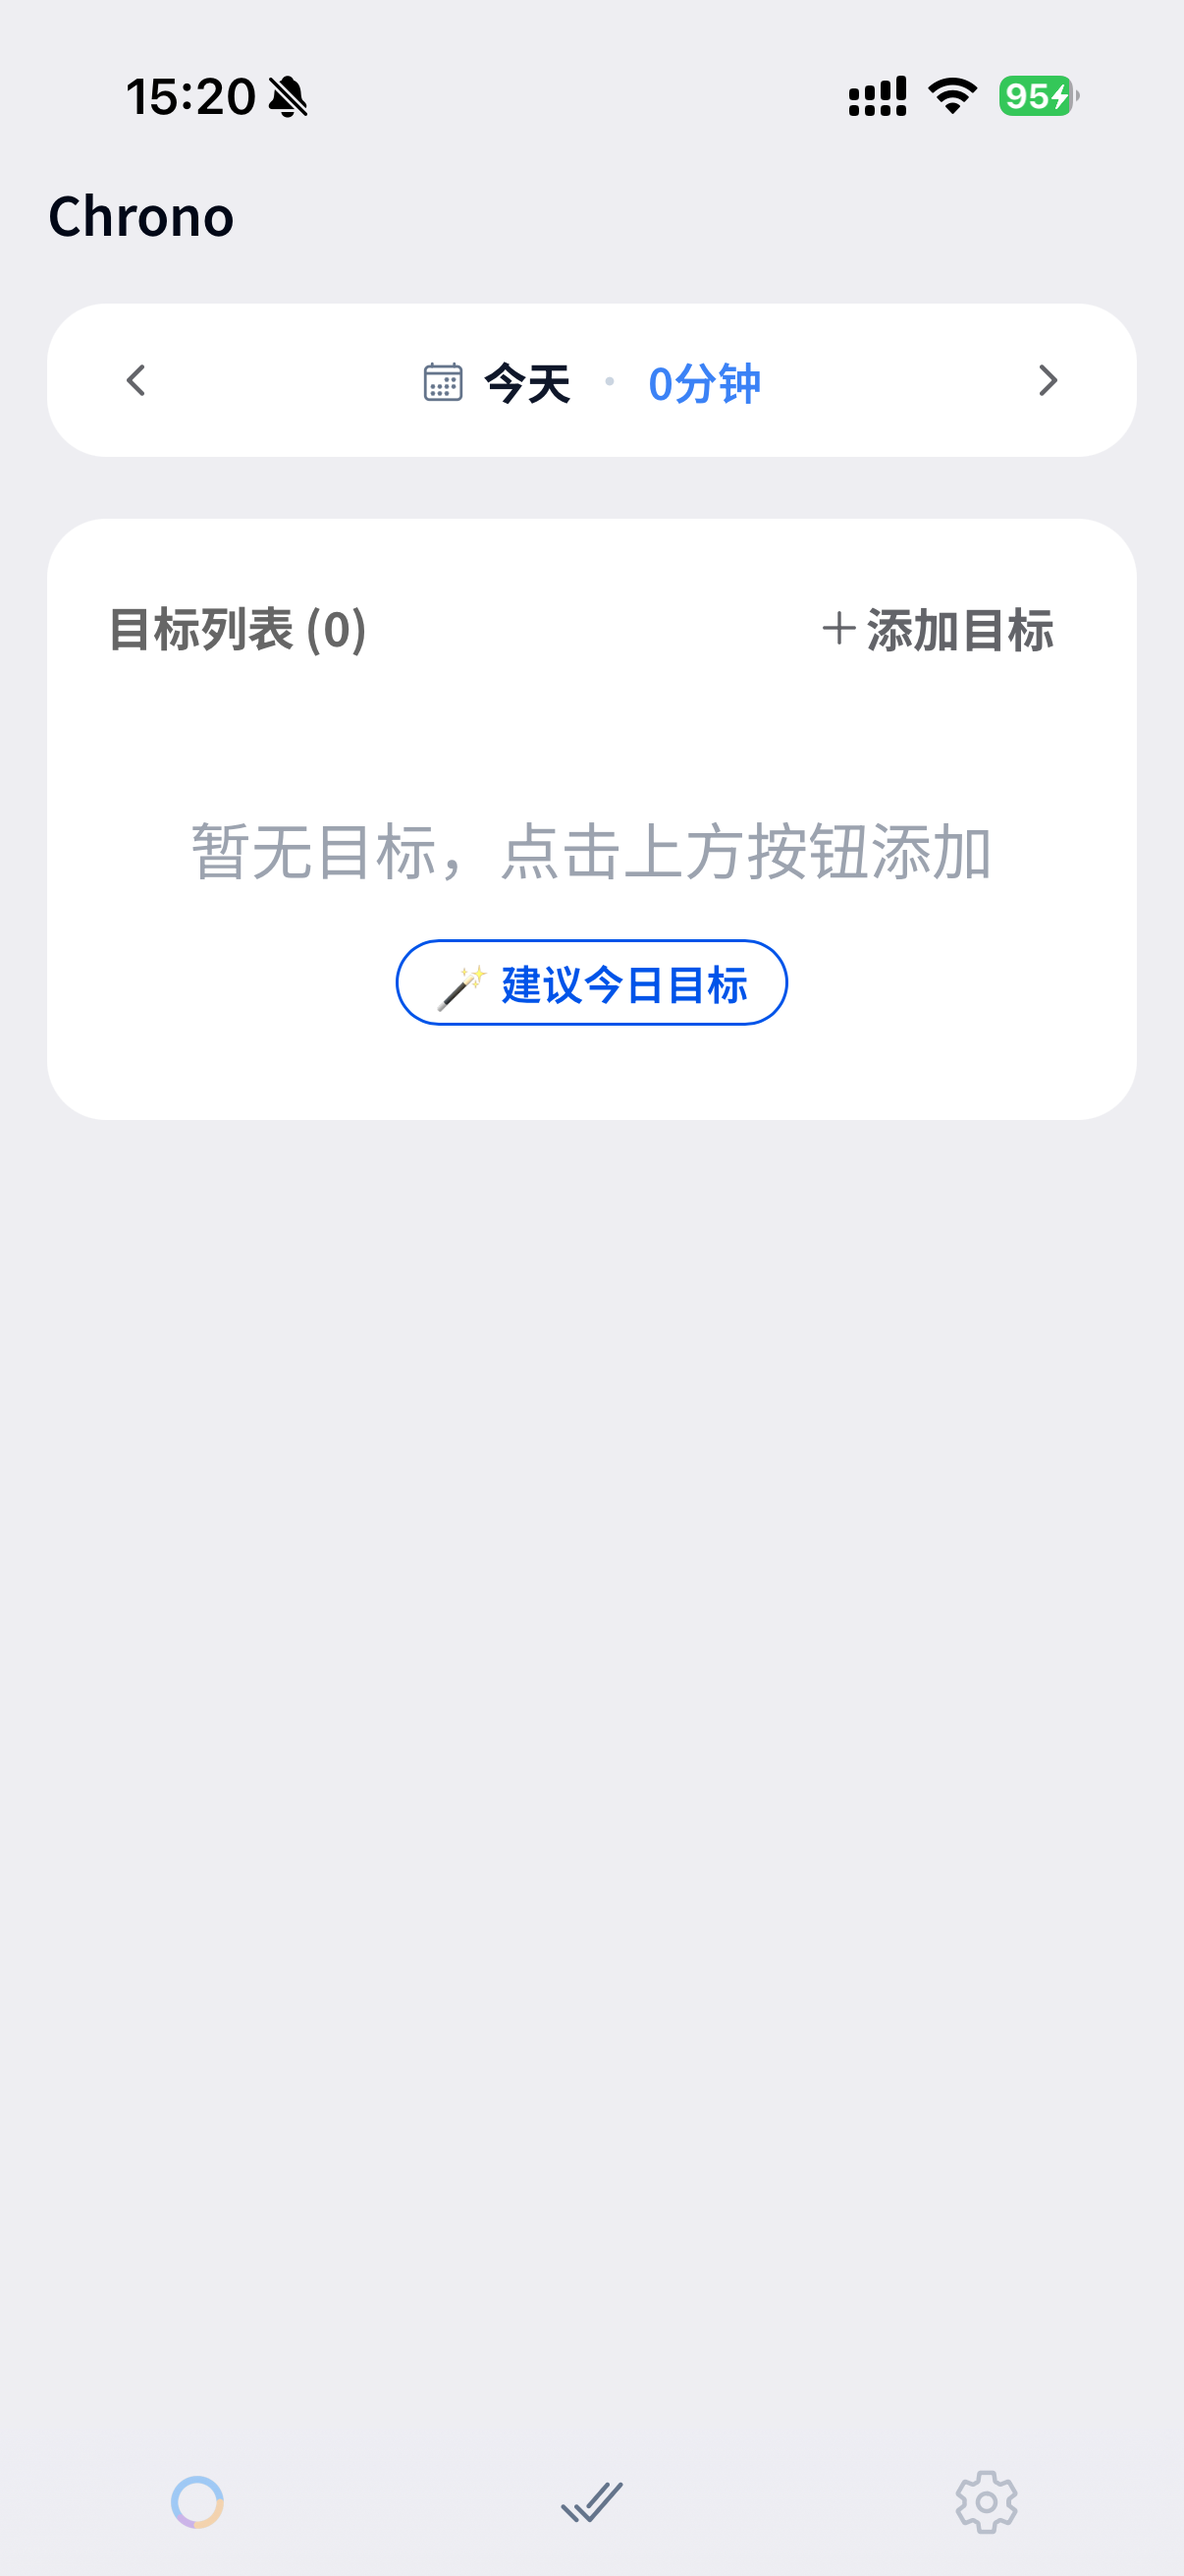
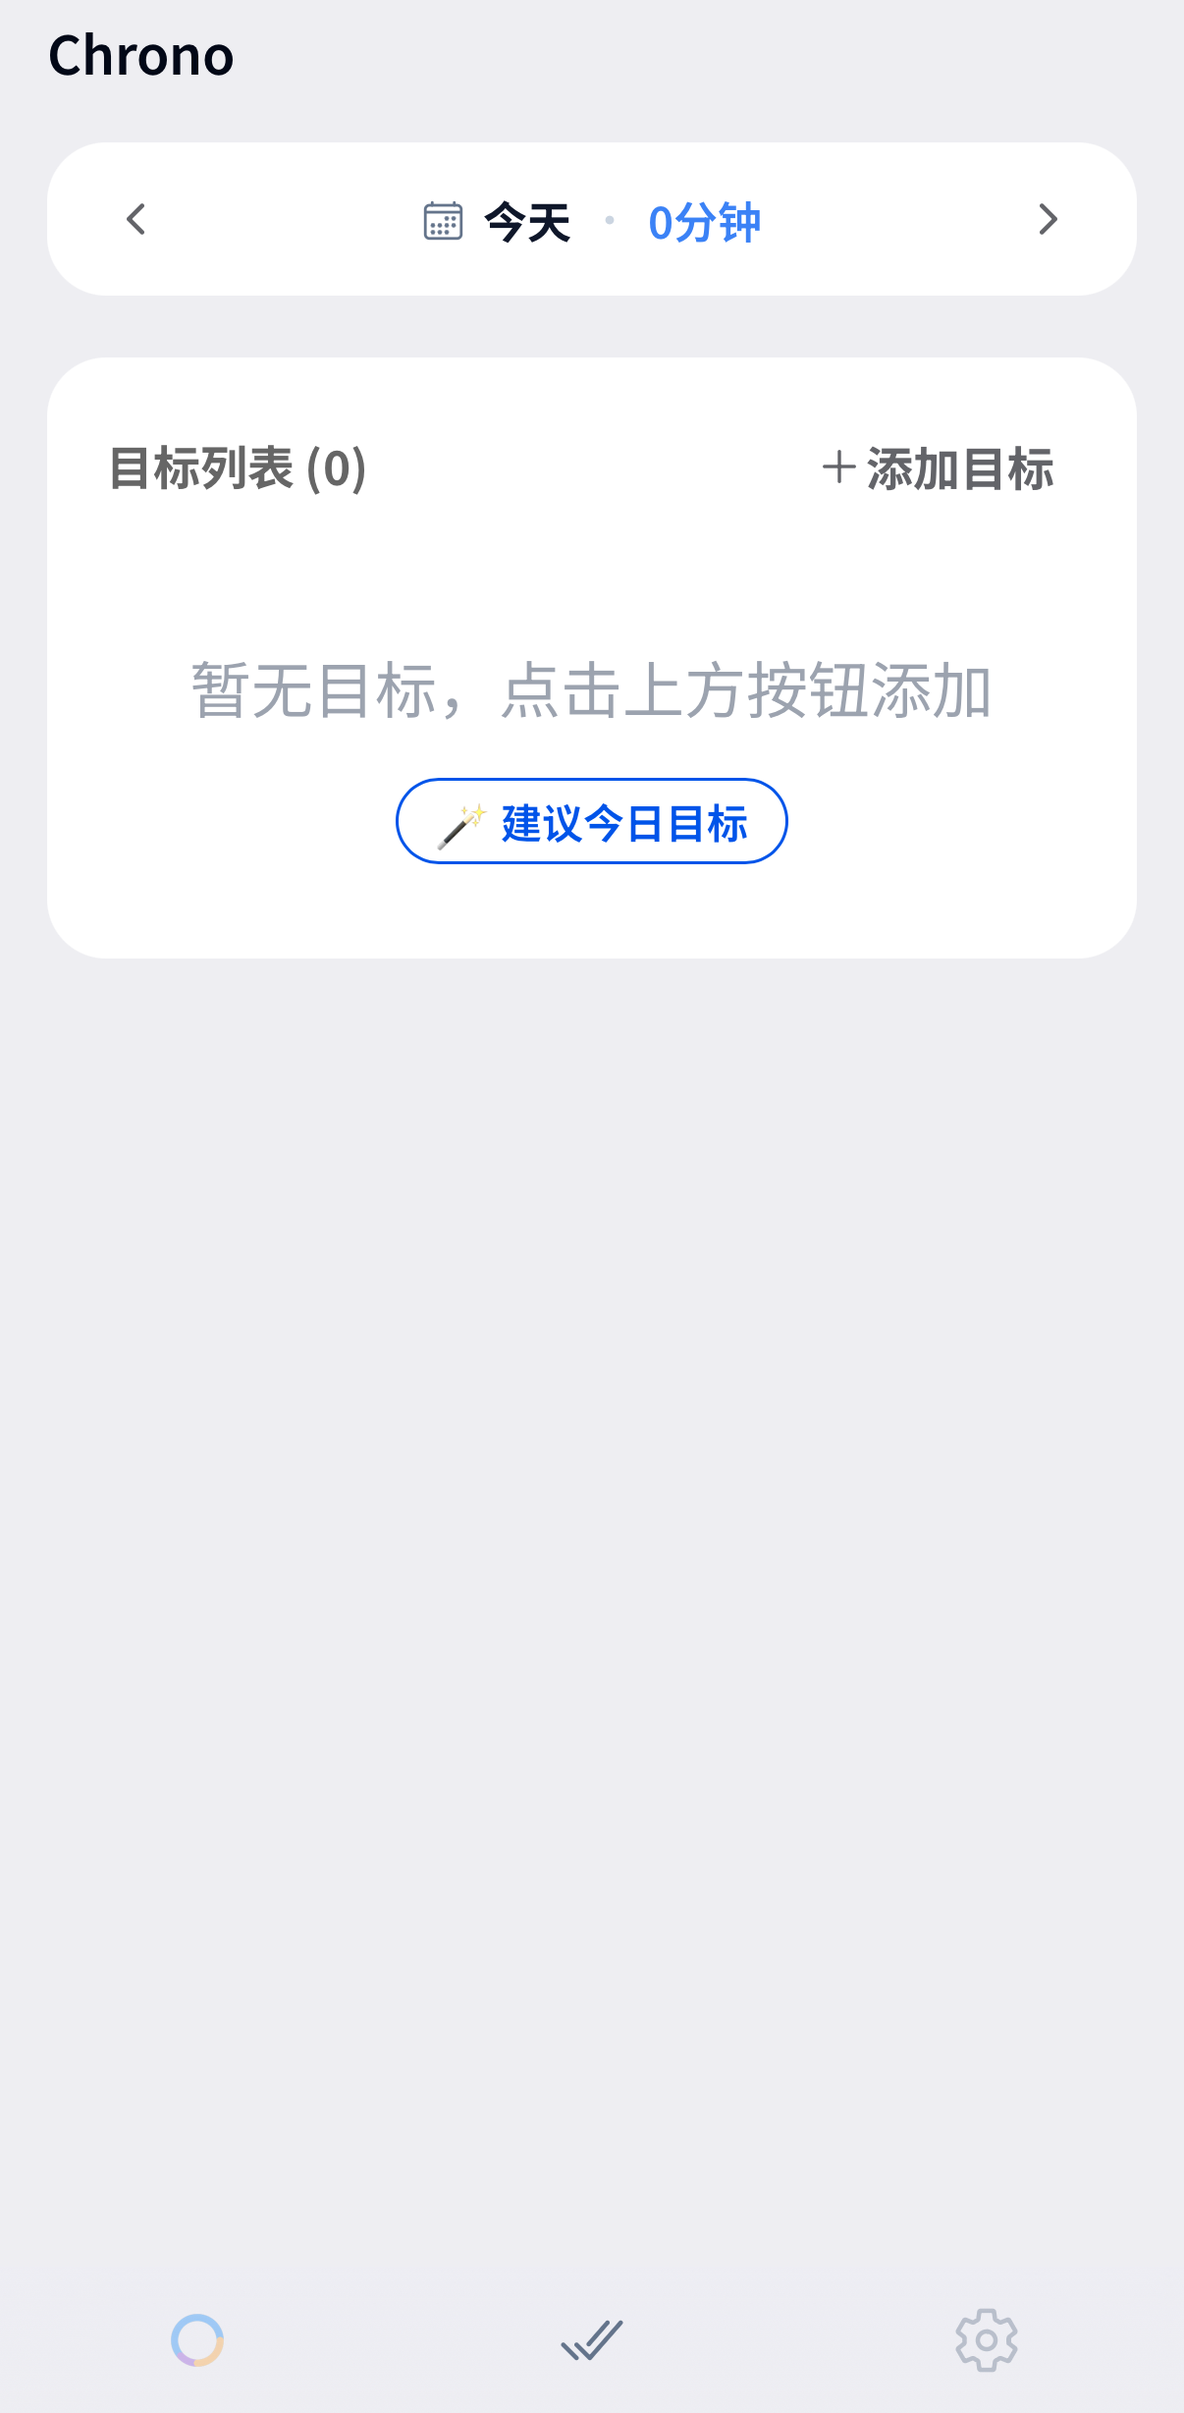
Update readme

diff --git a/README.md b/README.md
@@ -1,5 +1,3 @@
-# Chrono
-
 <p align="center">
   <img src="assets/icon.png" width="96" alt="Chrono logo">
 </p>
